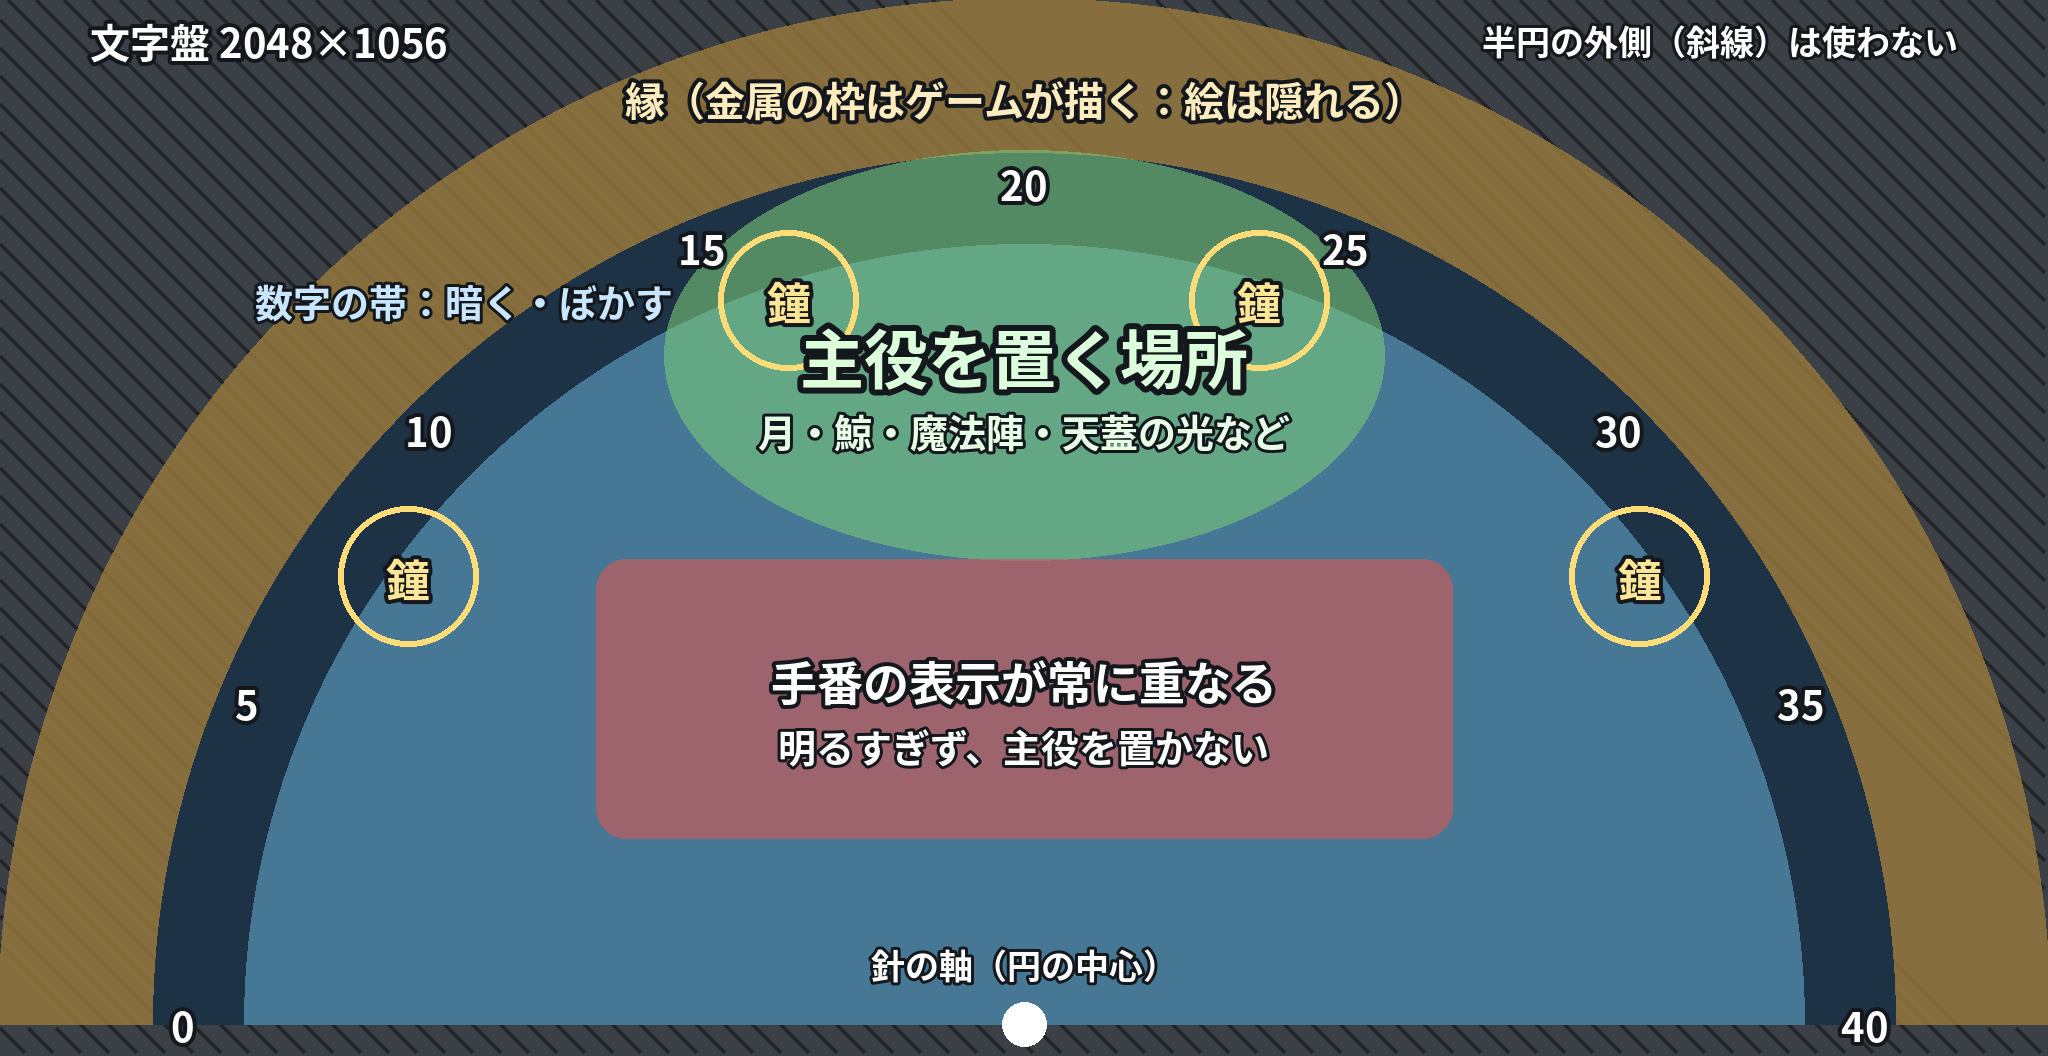
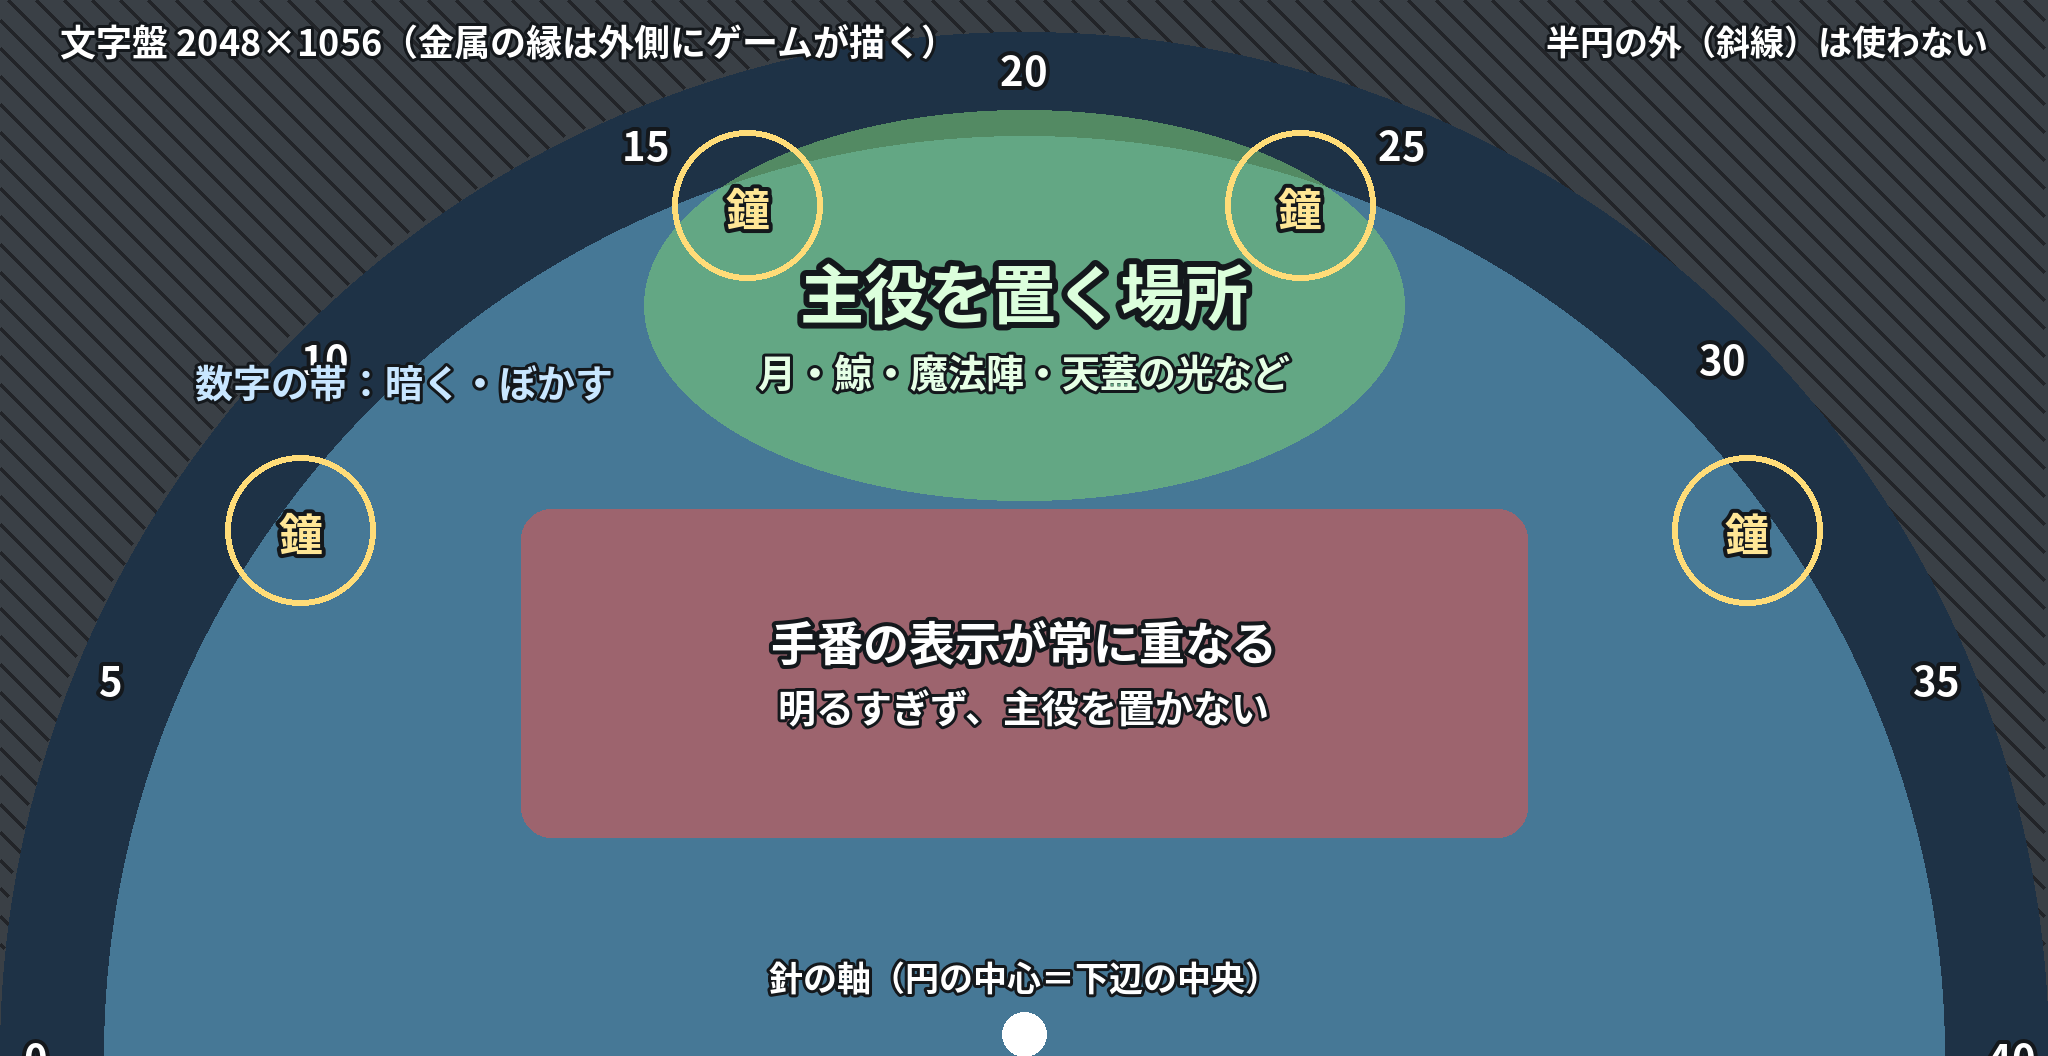
テーマのイラスト化：夜桜の文字盤・スリーブ・プレイマットをイラストに
- 描かれた中身（文字盤の盤面・スリーブの額の中・マット全面）をイラストに差し替える仕組み（THEME_PICS）。縁・額縁・鐘・演出はそのまま
- 文字盤のイラストは縁の内側の半円に合わせ、数字の帯を少し暗くする。スリーブは文字の帯を暗く
- テーマのスリーブを2倍の解像度で描く
- 型紙（文字盤）をこの配置に合わせて更新

Claude-Session: https://claude.ai/code/session_01PU6x19gKcwdar716Zizej9

diff --git a/src/render/lookArt.ts b/src/render/lookArt.ts
@@ -29,10 +29,71 @@ const tickArc = (r: number, n: number, len: number, w: number, color: string) =>
 export const svgDoc = (viewBox: string, w: number, h: number, body: string, defs = '') =>
   `<svg xmlns="http://www.w3.org/2000/svg" viewBox="${viewBox}" width="${w}" height="${h}" preserveAspectRatio="xMidYMid slice"><defs>${defs}</defs>${body}</svg>`;
 
+// ------------------------------------------------------------------ painted theme pictures
+/**
+ * Themes that have painted pictures (public/themes/<theme>_<part>.webp, made from docs/theme-art-brief.md and the
+ * templates in docs/theme-templates). A picture replaces the drawn inside of a part — the face under the dial's rim,
+ * the window of a sleeve, the whole mat — while the rim, the frame, the bells, the ticks and the effects stay drawn.
+ */
+export const THEME_PICS: Record<string, { dial?: boolean; back?: boolean; mat?: boolean }> = {
+  wadokei: { dial: true, back: true, mat: true },
+};
+let picBase = './themes/';
+export function setThemePicBase(base: string) { picBase = base; }
+const PIC: Record<string, string> = {};
+/** A picture as a data: URL (an SVG drawn as an image may not load anything from outside itself). */
+async function loadPic(name: string, maxMs: number): Promise<void> {
+  const get = (async () => {
+    const r = await fetch(picBase + name);
+    if (!r.ok) return;
+    const b = await r.blob();
+    PIC[name] = await new Promise<string>((res, rej) => { const fr = new FileReader(); fr.onload = () => res(fr.result as string); fr.onerror = rej; fr.readAsDataURL(b); });
+  })().catch(() => {});
+  await Promise.race([get, new Promise((res) => setTimeout(res, maxMs))]);
+}
+const picsLoaded = () => Promise.all(Object.entries(THEME_PICS).flatMap(([t, parts]) => (['dial', 'back', 'mat'] as const).filter((k) => parts[k]).map((k) => loadPic(`${t}_${k}.webp`, 8000))));
+/** Replaces the SVG group that starts with `<g ${attr}>` (and everything inside it) by `body`. */
+function swapGroup(svg: string, attr: string, body: string): string {
+  const start = svg.indexOf(`<g ${attr}>`);
+  if (start < 0) return svg;
+  const re = /<g[\s>]|<\/g>/g;
+  re.lastIndex = start;
+  let depth = 0, m: RegExpExecArray | null;
+  while ((m = re.exec(svg))) {
+    if (m[0] === '</g>') { if (--depth === 0) return svg.slice(0, start) + body + svg.slice(m.index + 4); }
+    else depth++;
+  }
+  return svg;
+}
+const pic = (href: string, x: number, y: number, w: number, h: number) => `<image href="${href}" x="${f(x)}" y="${f(y)}" width="${f(w)}" height="${f(h)}" preserveAspectRatio="xMidYMid slice"/>`;
+/** The painted parts in place of the drawn ones (when a theme has them and they loaded). */
+function applyPics(t: string) {
+  const parts = THEME_PICS[t];
+  if (!parts) return;
+  const d = DIAL_ART[`dial:${t}`].art, b = BACK_ART[`back:${t}`], m = MAT_ART[`mat:${t}`];
+  const dial = PIC[`${t}_dial.webp`], back = PIC[`${t}_back.webp`], mat = PIC[`${t}_mat.webp`];
+  if (parts.dial && dial) {
+    // the face: the picture, darkened a little towards the rim where the numbers sit
+    // fitted to the face (inside the rim), so nothing near the top of the picture hides under the rim
+    const w = 506, x = 47, y = 304 - (w * DIAL_VIEW.h) / DIAL_VIEW.w;
+    d.defs += `<radialGradient id="pv" gradientUnits="userSpaceOnUse" cx="300" cy="304" r="253"><stop offset=".7" stop-color="#000" stop-opacity="0"/><stop offset="1" stop-color="#000" stop-opacity=".5"/></radialGradient>`;
+    d.under = swapGroup(d.under, 'clip-path="url(#fc)"', `<g clip-path="url(#fc)">${pic(dial, x, y, w, (w * DIAL_VIEW.h) / DIAL_VIEW.w)}<path d="M47 304 A253 253 0 0 1 553 304 Z" fill="url(#pv)"/></g>`);
+    d.spins = undefined; d.pulse = undefined;
+  }
+  if (parts.back && back) {
+    // the sleeve's window: the picture, with the band under the CHRONO DUEL line kept dark
+    b.defs += `<linearGradient id="pb" x1="0" y1="0" x2="0" y2="1"><stop offset="0" stop-color="#000" stop-opacity="0"/><stop offset="1" stop-color="#000" stop-opacity=".72"/></linearGradient>`;
+    b.body = swapGroup(b.body, 'clip-path="url(#in)"', `<g clip-path="url(#in)">${pic(back, 0, 0, 240, 336)}<rect x="0" y="262" width="240" height="74" fill="url(#pb)"/></g>`);
+  }
+  if (parts.mat && mat) {
+    Object.assign(m, { under: `<g transform="translate(0 ${MAT_VIEW.y})">${pic(mat, 0, 0, MAT_VIEW.w, MAT_VIEW.h)}</g>`, over: '', spins: undefined, glow: undefined, drift: undefined });
+  }
+}
+
 // ------------------------------------------------------------------ the generated pictures (loaded on their own)
 let GEN: Record<string, GenTheme> | null = null;
-/** Resolves once the theme pictures are loaded (they fill in DIAL_ART, BACK_ART and MAT_ART). */
-export const artReady: Promise<void> = import('./themeArt').then((m) => { GEN = m.THEME_ART; fill(); }).catch(() => {});
+/** Resolves once the theme pictures are loaded (they fill in DIAL_ART, BACK_ART and MAT_ART; painted ones replace parts). */
+export const artReady: Promise<void> = Promise.all([import('./themeArt'), picsLoaded()]).then(([m]) => { GEN = m.THEME_ART; fill(); }).catch(() => {});
 export const artLoaded = () => GEN !== null;
 
 /** Theme ids (kept from the first themes, so whoever owns one keeps it) → the design each now shows. */
@@ -175,5 +236,6 @@ function fill() {
     Object.assign(d, { defs: g.dial.defs, under: g.dial.under, over: g.dial.over, overDefs: g.dial.overDefs, clip: g.dial.clip, spinDefs: g.dial.spinDefs, spins: g.dial.spins?.map((s) => ({ ...s, defs: g.dial.spinDefs })) });
     Object.assign(BACK_ART[`back:${t}`], { body: g.back.body, defs: g.back.defs });
     Object.assign(MAT_ART[`mat:${t}`], { defs: g.mat.defs, under: g.mat.under, over: g.mat.over ?? '', spins: g.mat.spins });
+    applyPics(t);
   }
 }

diff --git a/src/render/looks.ts b/src/render/looks.ts
@@ -44,6 +44,8 @@ export function raster(key: string, svg: string, w: number, h: number, after?: (
 
 // ------------------------------------------------------------------ card backs
 export const isArtBack = (id: string) => id in BACK_ART;
+/** Themed sleeves are drawn at this many pixels per unit of CARD_W (views.ts gives their textures the same resolution). */
+export const BACK_RES = 2;
 /** The finished back (with the CHRONO DUEL line), or undefined while it is still loading. */
 export const artBack = (id: string) => done.get('back:' + id);
 export async function loadBack(id: string): Promise<HTMLCanvasElement> {
@@ -51,12 +53,12 @@ export async function loadBack(id: string): Promise<HTMLCanvasElement> {
   if (hit) return hit;
   await artReady;
   const b = BACK_ART[id];
-  const k = CARD_W / 240;
-  return raster('back:' + id, backSvg(id, CARD_W, CARD_H), CARD_W, CARD_H, (c) => {
+  const W = CARD_W * BACK_RES, H = CARD_H * BACK_RES, k = W / 240;
+  return raster('back:' + id, backSvg(id, W, H), W, H, (c) => {
     c.fillStyle = b.ink; c.font = `700 ${Math.round(BACK_TEXT.size * k)}px ${FONTS.num}`; c.textAlign = 'center';
     (c as CanvasRenderingContext2D & { letterSpacing?: string }).letterSpacing = `${(BACK_TEXT.spacing * k).toFixed(1)}px`;
     c.shadowColor = b.ink; c.shadowBlur = 6;
-    c.fillText('CHRONO DUEL', CARD_W / 2 + (BACK_TEXT.spacing * k) / 2, (b.textY * CARD_H) / 336);
+    c.fillText('CHRONO DUEL', W / 2 + (BACK_TEXT.spacing * k) / 2, (b.textY * H) / 336);
   });
 }
 /** Every themed back, so decks and opponents can show them right away. */

diff --git a/src/render/views.ts b/src/render/views.ts
@@ -12,7 +12,7 @@ const tex = new Map<string, Texture>();
 /** A texture for a canvas drawn at `res` pixels per unit: it keeps the logical size (width / res) on screen. */
 export const hiTex = (cv: HTMLCanvasElement, res = FACE_RES) => new Texture({ source: new CanvasSource({ resource: cv, resolution: res }) });
 export function faceTex(id: string) { let t = tex.get('f:' + id); if (!t) { t = hiTex(cardFace(id)); tex.set('f:' + id, t); } return t; }
-export function backTex(style = 'back:brass'): Texture { if (isArtBack(style) && !artBack(style)) return backTex('back:brass'); let t = tex.get('b:' + style); if (!t) { t = Texture.from(cardBack(style)); tex.set('b:' + style, t); } return t; }
+export function backTex(style = 'back:brass'): Texture { if (isArtBack(style) && !artBack(style)) return backTex('back:brass'); let t = tex.get('b:' + style); if (!t) { const cv = cardBack(style); t = cv.width > CARD_W ? hiTex(cv, cv.width / CARD_W) : Texture.from(cv); tex.set('b:' + style, t); } return t; }
 
 export const UNIT_W = 176, UNIT_H = 214;
 

diff --git a/docs/theme-art-brief.md b/docs/theme-art-brief.md
@@ -8,7 +8,7 @@
 ## ゲームへの組み込み方（描く人が知っておくこと）
 
 - 絵は「背景」として敷きます。金属の縁・額縁、目盛り・数字・針、鐘の飾り、レーンの枠、「CHRONO DUEL」の文字は、ゲームがその上に描きます。**絵に枠・文字・数字・時計の目盛りを描かないでください。**
-- 文字盤は半円に切り抜いて使います。半円の外は捨てるので、何が写っていても構いません。
+- 文字盤は、絵の幅いっぱいを盤の内側（金属の縁の内側の半円）に合わせて敷き、半円に切り抜きます。半円の外は捨てるので、何が写っていても構いません。縁は外側にゲームが描くので、絵の端まで盤として見えます。
 - プレイマットは自分側に敷き、相手側には**上下逆さ**で敷きます。真上から見下ろした面（床・地面・机・水面）として描き、空・地平線・立っている人物は入れません。
 - 8テーマとも、カードイラストと同じ画風（日本のスマホカードゲーム風のアニメ背景美術、描き込みは少なめ）で揃えます。
 
@@ -22,7 +22,7 @@
 
 ## 進め方
 
-1. まず1テーマ（おすすめは「夜桜」）の3枚だけ作ってもらい、ゲームに組み込んで画面で確認します。
+1. まず1テーマ（「夜桜」）の3枚で試し、ゲームに組み込んで画面で確認しました（夜桜は組み込み済み）。
 2. 見え方が良ければ、残りの7テーマに広げます。
 3. 森（蒸気機関の置き換え）と魔導書（記憶の書庫の作り変え）は、案Aを本命として書いています。案Bにする場合は、各テーマの末尾にある「案Bのとき」のプロンプトを使ってください。
 
